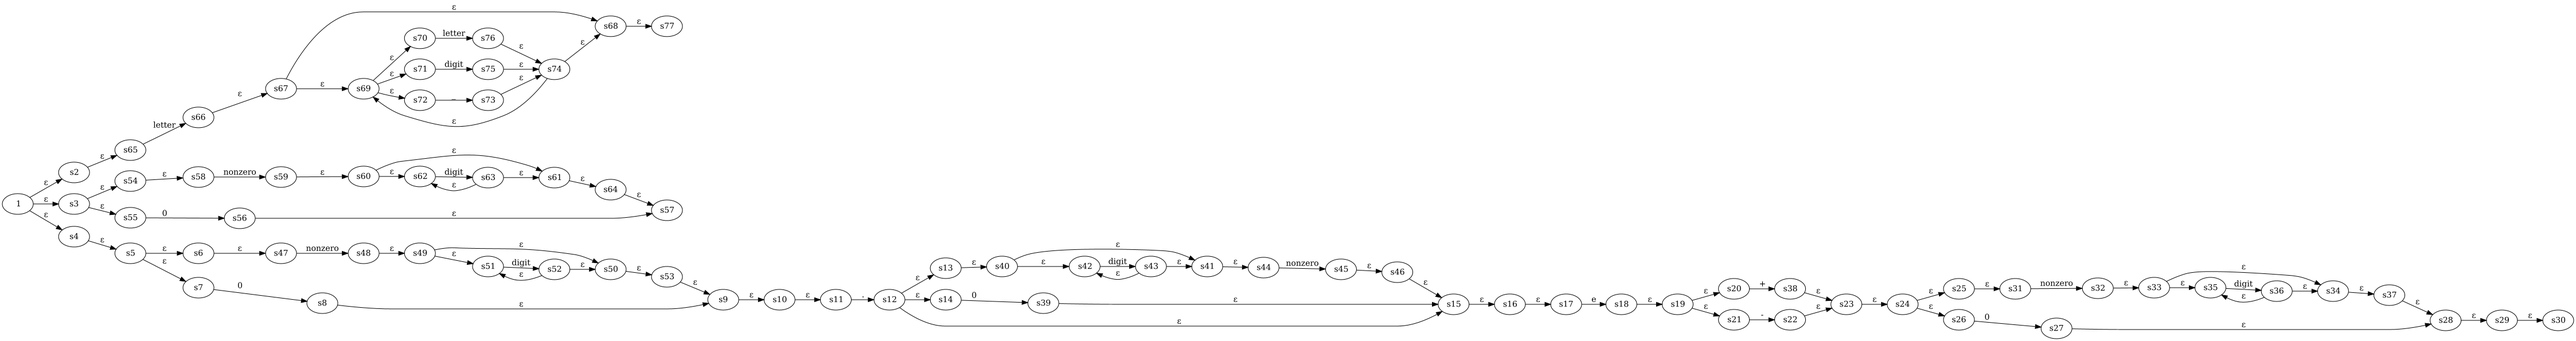
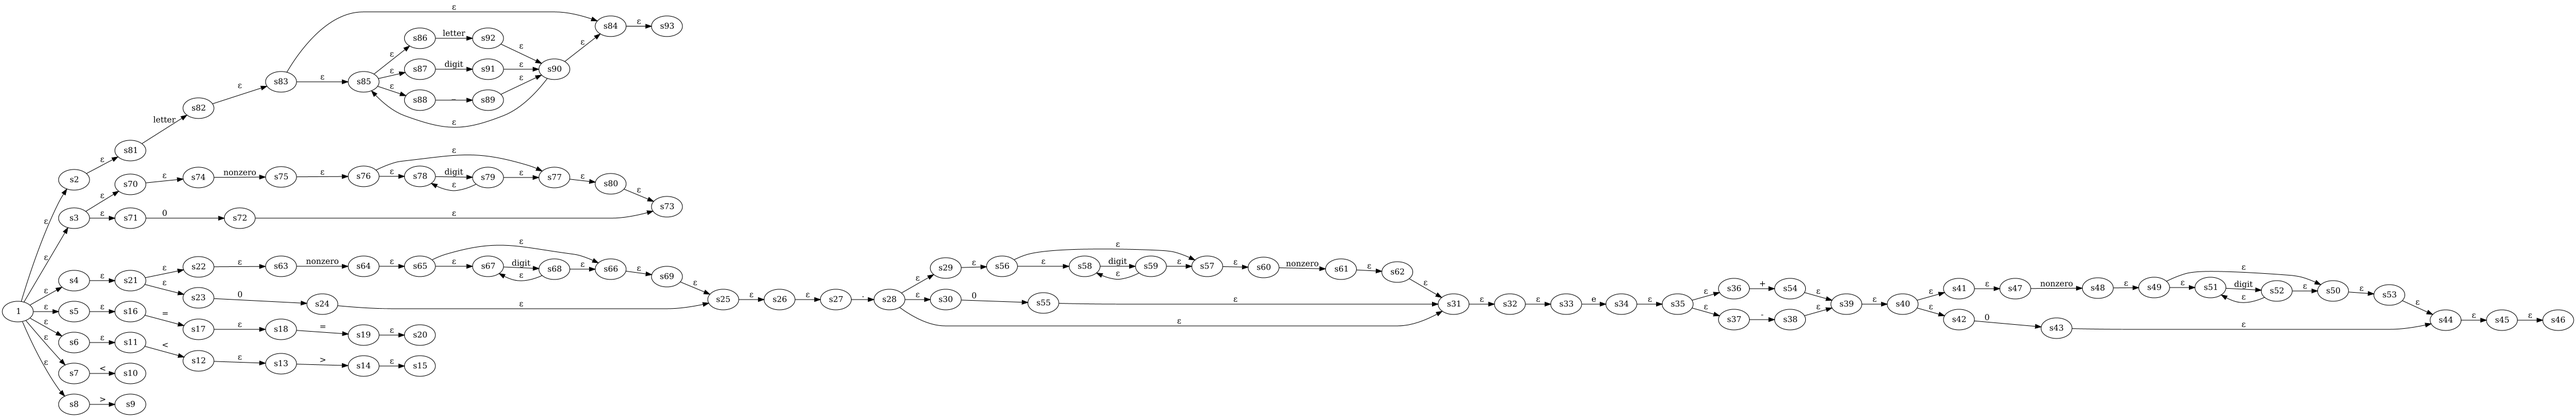
Refactor NDFA generator to use tokens

diff --git a/src/DfaGeneration/NdfaGenerator.java b/src/DfaGeneration/NdfaGenerator.java
@@ -1,5 +1,7 @@
 package DfaGeneration;
 
+import LexicalAnalysis.Token;
+
 import java.util.ArrayList;
 import java.util.HashMap;
 import java.util.List;
@@ -9,19 +11,27 @@ import java.util.List;
  */
 public class NdfaGenerator {
     private HashMap<String, String> atomicLexicalElementMap;
-    private ArrayList<String> tokens;
+    private ArrayList<String> standalones;
     private State root;
 
     public NdfaGenerator() {
         this.atomicLexicalElementMap = new HashMap<String, String>();
-        this.tokens = new ArrayList<String>();
+        this.standalones = new ArrayList<String>();
+
+        for (Token token : Token.values()) {
+            if (token.isExpand())
+                atomicLexicalElementMap.put(token.getName(), token.getRegex());
+            if (token.isStandalone())
+                standalones.add(token.getName());
+        }
+
         root = new State();
     }
 
     public State generate() {
         // generate an DfaGeneration.Ndfa for every token
         ArrayList<State> generatedTokenEntryStates = new ArrayList<State>();
-        for  (String token : tokens) {
+        for  (String token : standalones) {
             Ndfa newNdfa = generateNdfaFromElement(token);
             generatedTokenEntryStates.add(newNdfa.getEntry());
         }
@@ -35,12 +45,12 @@ public class NdfaGenerator {
         return start;
     }
 
-    public void addElementRegularExpression(String element, String regularExpression) {
+    private void addElementRegularExpression(String element, String regularExpression) {
         atomicLexicalElementMap.put(element, regularExpression);
     }
 
-    public void addTokens(String... tokens) {
-        this.tokens.addAll(List.of(tokens));
+    private void addTokens(String... tokens) {
+        this.standalones.addAll(List.of(tokens));
     }
 
     private Ndfa generateNdfaFromElement(String element) {

diff --git a/src/LexicalAnalysis/Token.java b/src/LexicalAnalysis/Token.java
@@ -9,10 +9,11 @@ public enum Token {
     LETTER("letter", "a..z | A..Z", false, false),
     DIGIT("digit", "0..9", false, false),
     NON_ZERO("nonzero", "1..9", false, false),
-    EQUALS_EQUALS("", "= =", true, false),
-    DIAMOND("", "< >", true, false),
-    LESS_THAN("", "<", true, false),
-    GREATER_THAN("", ">", true, false),
+    EQUALS_EQUALS("equalsequals", "= =", true, true),
+    DIAMOND("diamond", "< >", true, true),
+    LESS_THAN("lessthan", "<", true, true),
+    GREATER_THAN("greaterthan", ">", true, true),
+    /*
     LESS_THAN_OR_EQUAL("", "< =", true, false),
     GREATER_THAN_OR_EQUAL("", "> =", true, false),
     PLUS("", "+", true, false),
@@ -32,6 +33,7 @@ public enum Token {
     COLON("", ":", true, false),
     ARROW("", "=>", true, false),
     COLON_COLON("", "::", true, false),
+     */
 
     ;
 
@@ -40,11 +42,26 @@ public enum Token {
     private final boolean standalone; // todo: find better name
     private final boolean expand;
 
-
     Token(String name, String regex, boolean standalone, boolean expand) {
         this.name = name;
         this.regex = regex;
         this.standalone = standalone;
         this.expand = expand;
+    }
+
+    public String getName() {
+        return name;
+    }
+
+    public String getRegex() {
+        return regex;
+    }
+
+    public boolean isStandalone() {
+        return standalone;
+    }
+
+    public boolean isExpand() {
+        return expand;
     }
 }

diff --git a/src/LexicalAnalysis/Lexer.java b/src/LexicalAnalysis/Lexer.java
@@ -15,15 +15,6 @@ public class Lexer {
 
     public Lexer() throws IOException {
         ndfaGenerator = new NdfaGenerator();
-
-        ndfaGenerator.addElementRegularExpression("id", "letter alphanum*");
-        ndfaGenerator.addElementRegularExpression("alphanum", "letter | digit | _");
-        ndfaGenerator.addElementRegularExpression("integer", "[nonzero digit*] | 0");
-        ndfaGenerator.addElementRegularExpression("float", "integer fraction [e [+ | -] integer]");
-        ndfaGenerator.addElementRegularExpression("fraction", ". [digit* nonzero] | 0");
-
-        ndfaGenerator.addTokens("id", "integer", "float");
-
         State ndfa = ndfaGenerator.generate();
         AutomataVisualizer.visualize(ndfa, "ndfa");
 
